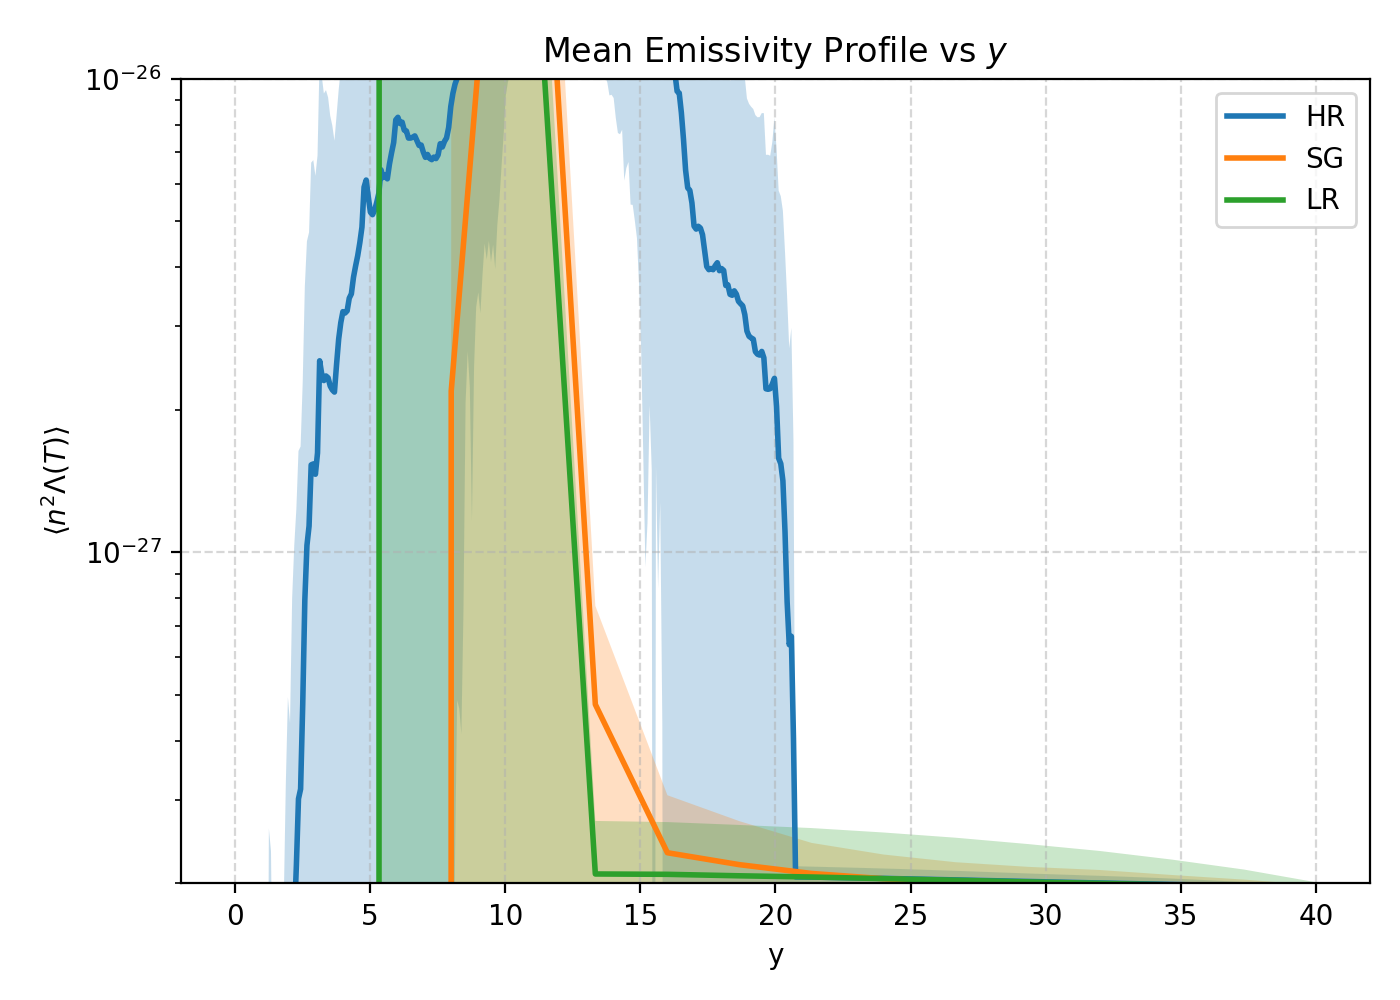
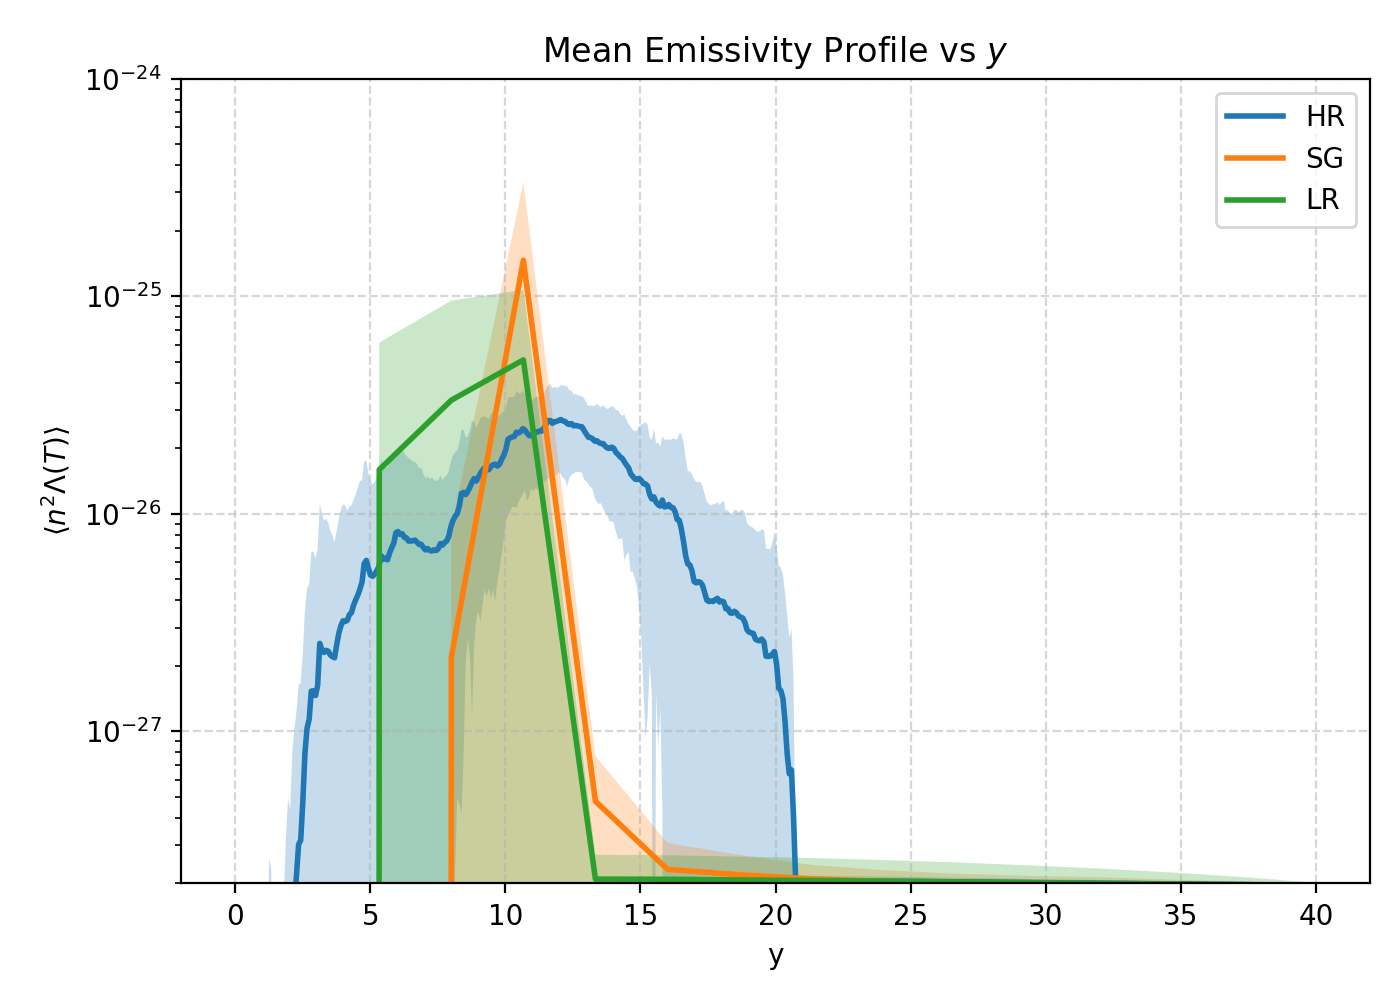
pdf

diff --git a/data/mocks/mock_sg.py b/data/mocks/mock_sg.py
@@ -1089,7 +1089,7 @@ ax.fill_between(
 ax.set_xlabel("y")
 ax.set_ylabel(r"$\langle n^2 \Lambda(T) \rangle$")
 
-ax.set_ylim(2e-28, 1e-26)
+ax.set_ylim(2e-28, 1e-24)
 
 ax.set_title(r"Mean Emissivity Profile vs $y$")
 
